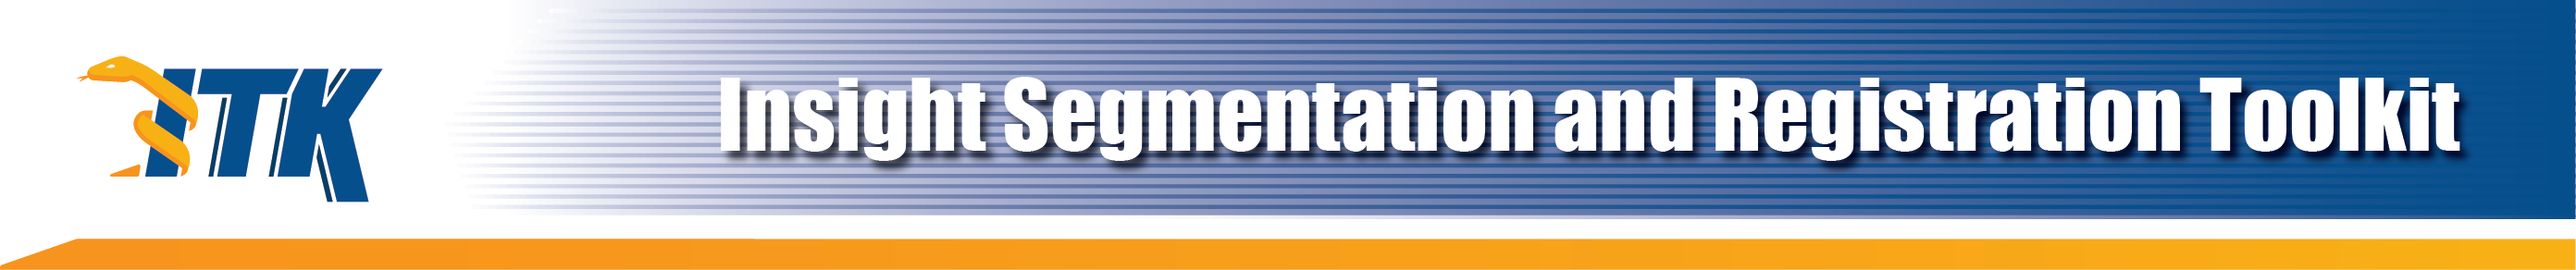
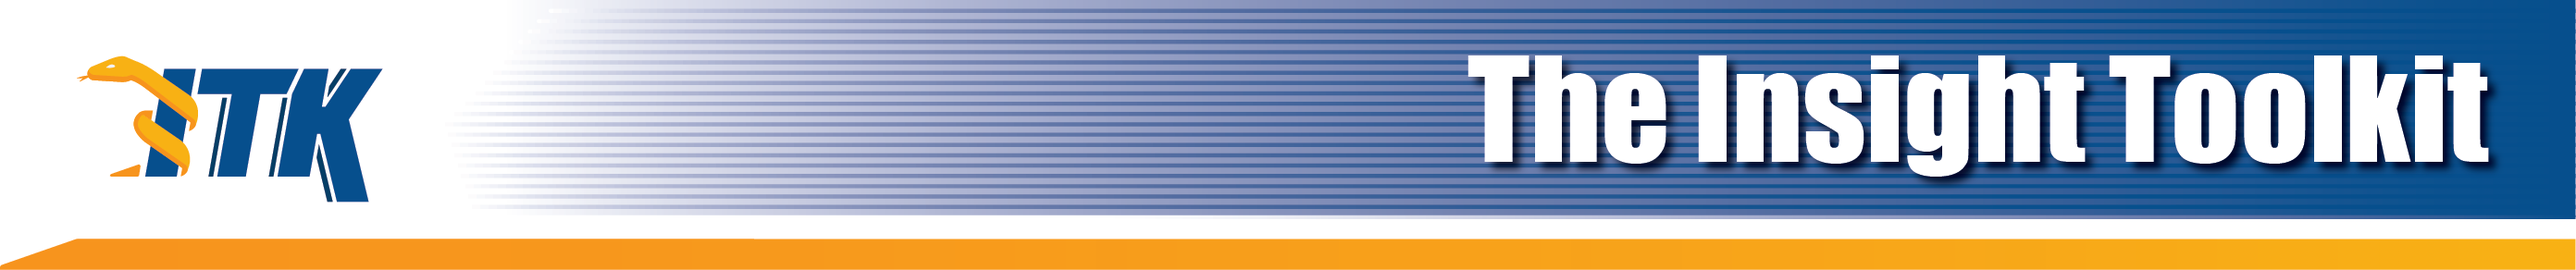
DOC: Use 'ITK: The Insight Toolkit' for README title
This is shorter, consistent with ITK's broader set of application and
capabilities, and
consistent with how people commonly know ITK.

Changed region(s): [[0.2812, 0.1849, 0.9688, 0.7089]]

diff --git a/README.md b/README.md
@@ -1,7 +1,7 @@
 ![ITK - The Insight Toolkit](Documentation/Art/itkBannerSmall.png)
 
-ITK: The Insight Segmentation and Registration Toolkit
-======================================================
+ITK: The Insight Toolkit
+========================
 
 [![GitHub release](https://img.shields.io/github/release/InsightSoftwareConsortium/ITK.svg)](https://github.com/InsightSoftwareConsortium/ITK/releases/latest)
 [![PyPI](https://img.shields.io/pypi/v/itk.svg)](https://pypi.python.org/pypi/itk)
